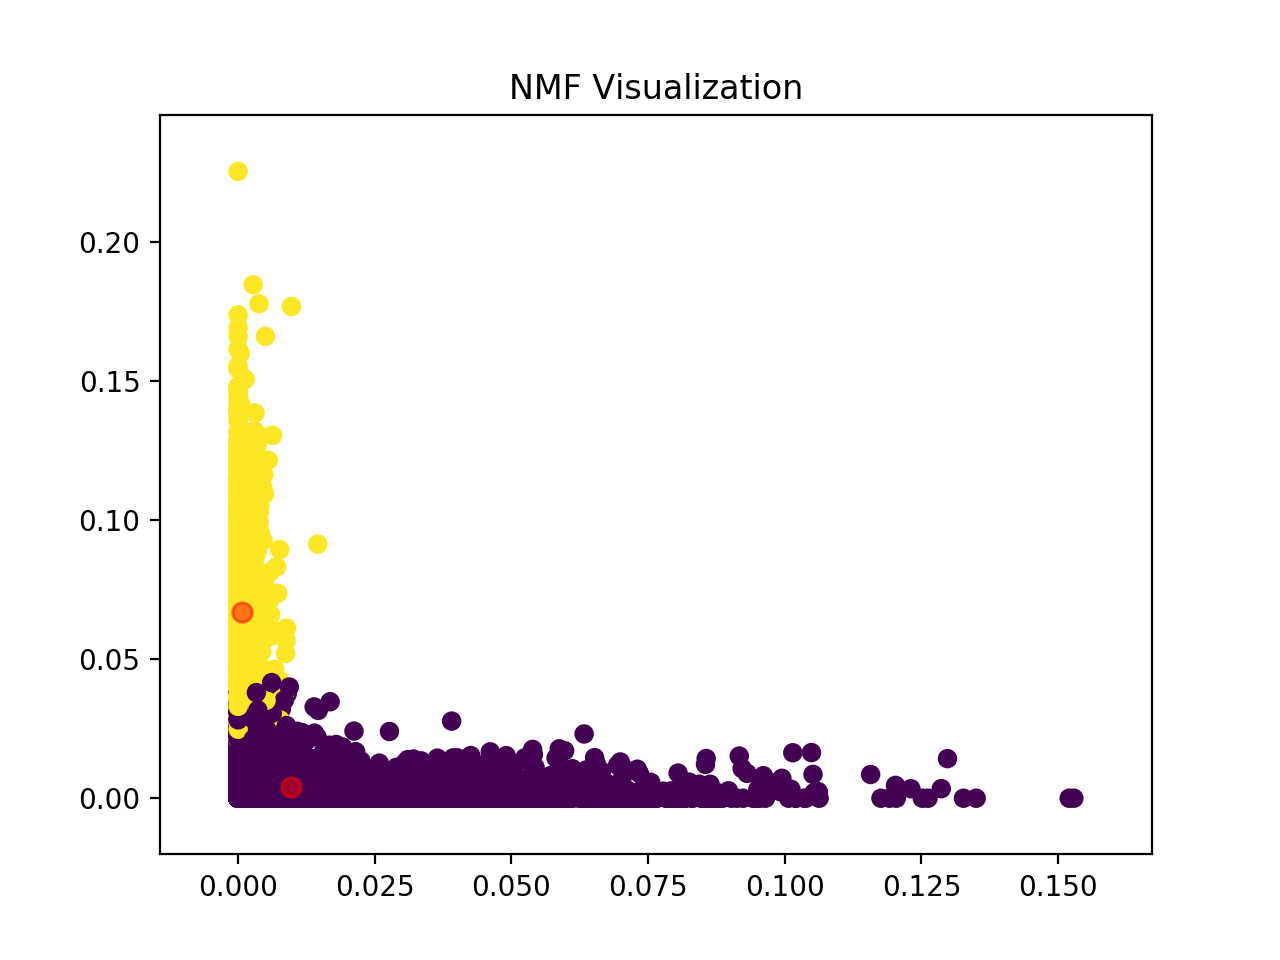
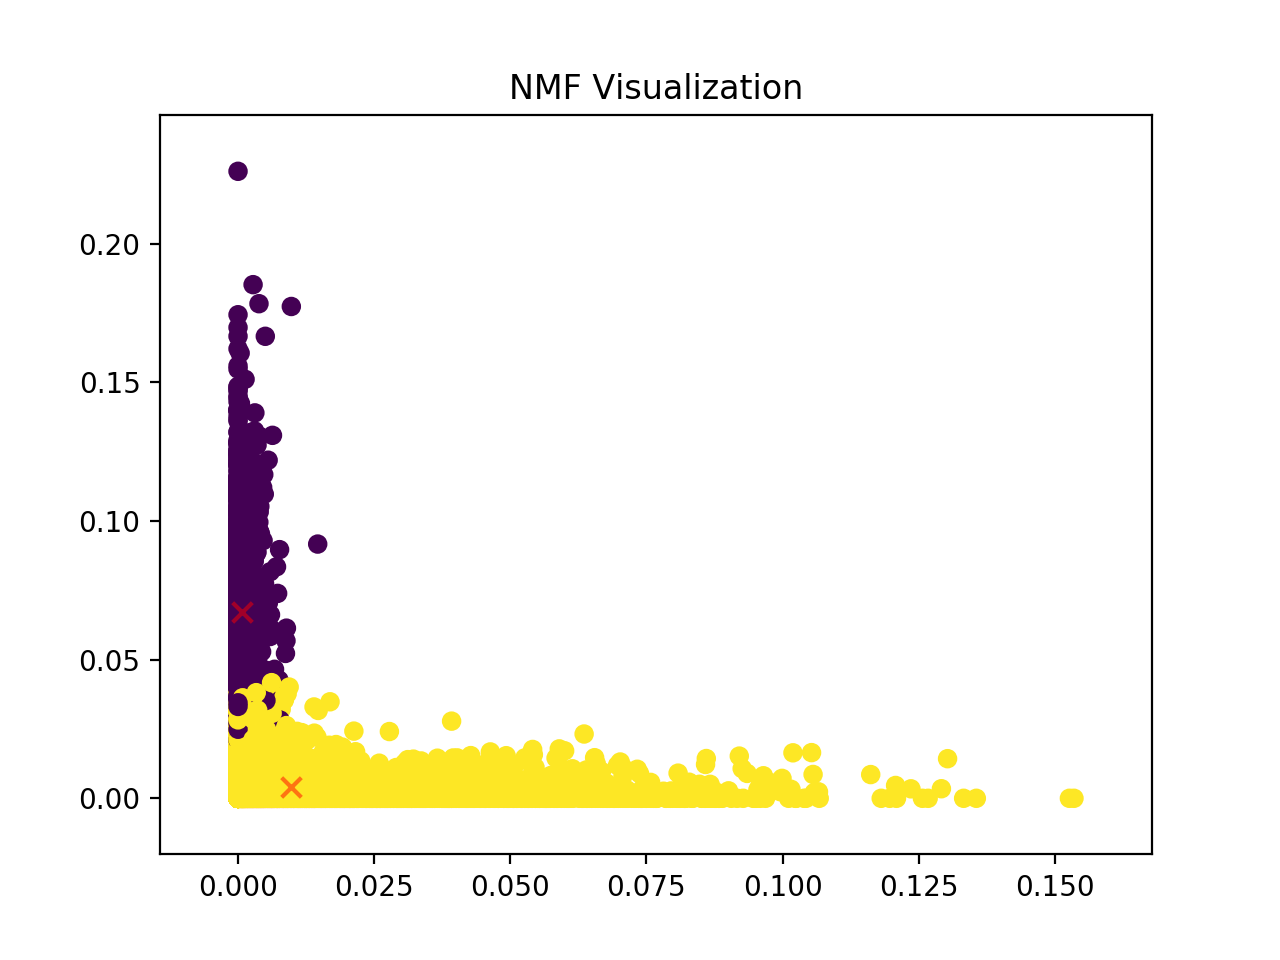
p4 done, plots in repo

diff --git a/lab2/8_cats_p4.py b/lab2/8_cats_p4.py
@@ -45,15 +45,30 @@ tfidf = tfidf
 
 #plot the two scatter plots
 from sklearn.cluster import KMeans
+from sklearn.metrics.cluster import homogeneity_score,completeness_score,v_measure_score
+from sklearn.metrics.cluster import adjusted_rand_score,adjusted_mutual_info_score
+from sklearn.metrics import confusion_matrix
+
+def print_scores(labels, predicted):
+    print "Contingency: "
+    print str(confusion_matrix(labels, predicted))
+    print "Homogeneity: " + str(homogeneity_score(labels, predicted))
+    print "completeness: " + str(completeness_score(labels, predicted))
+    print "V-measure: " + str(v_measure_score(labels, predicted))
+    print "RAND score: " + str(adjusted_rand_score(labels, predicted))
+    print "Mutual Info: " + str(adjusted_mutual_info_score(labels, predicted))
+
 def cluster_plot(labels, data, xax, yax, title):
     km = KMeans(n_clusters=2, init='k-means++', max_iter=100, n_init=1)
     km.fit(data)
     pred = km.predict(data)
     centers = km.cluster_centers_
 
+    print_scores(labels, km.labels_)
+
     #plot it
     plt.scatter(data[:,0], data[:,1], c=pred, cmap='viridis')
-    plt.scatter(centers[:,0], centers[:,1], c='red', s=50, alpha=0.5)   #bigger, but 50% transparent
+    plt.scatter(centers[:,0], centers[:,1], c='red', s=50, alpha=0.5, marker="x")   #bigger, but 50% transparent
     plt.xlabel(xax)
     plt.ylabel(yax)
     plt.title(title)
@@ -65,3 +80,21 @@ def cluster_plot(labels, data, xax, yax, title):
 
 cluster_plot(labels, lsi.fit_transform(tfidf), "", "", "SVD Visualization")
 cluster_plot(labels, nmf.fit_transform(tfidf), "", "", "NMF Visualization")
+
+#part 4b
+from sklearn.preprocessing import scale, FunctionTransformer
+print "SVD with unit variance"
+cluster_plot(labels, scale(lsi.fit_transform(tfidf)), "", "", "SVD with unit variance visualization")
+print "NMF with unit variance"
+cluster_plot(labels, scale(nmf.fit_transform(tfidf)), "", "", "NMF with unit variance visualization")
+
+
+log_tf = FunctionTransformer(func=np.log, inverse_func=np.exp)
+print "NMF with non-linear (log) transform"
+cluster_plot(labels, log_tf.fit_transform(nmf.fit_transform(tfidf) + 1), "", "", "NMF with logarithm transform visualization")
+
+print "NMF with scale then log transform"
+cluster_plot(labels, log_tf.fit_transform(scale(nmf.fit_transform(tfidf)) + 1), "", "", "NMF with unit variance then logarithm transform visualization")
+
+print "NMF with log transform then scale"
+cluster_plot(labels, log_tf.fit_transform(scale(nmf.fit_transform(tfidf)) + 1), "", "", "NMF with logarithm transform then unit variance visualization")
